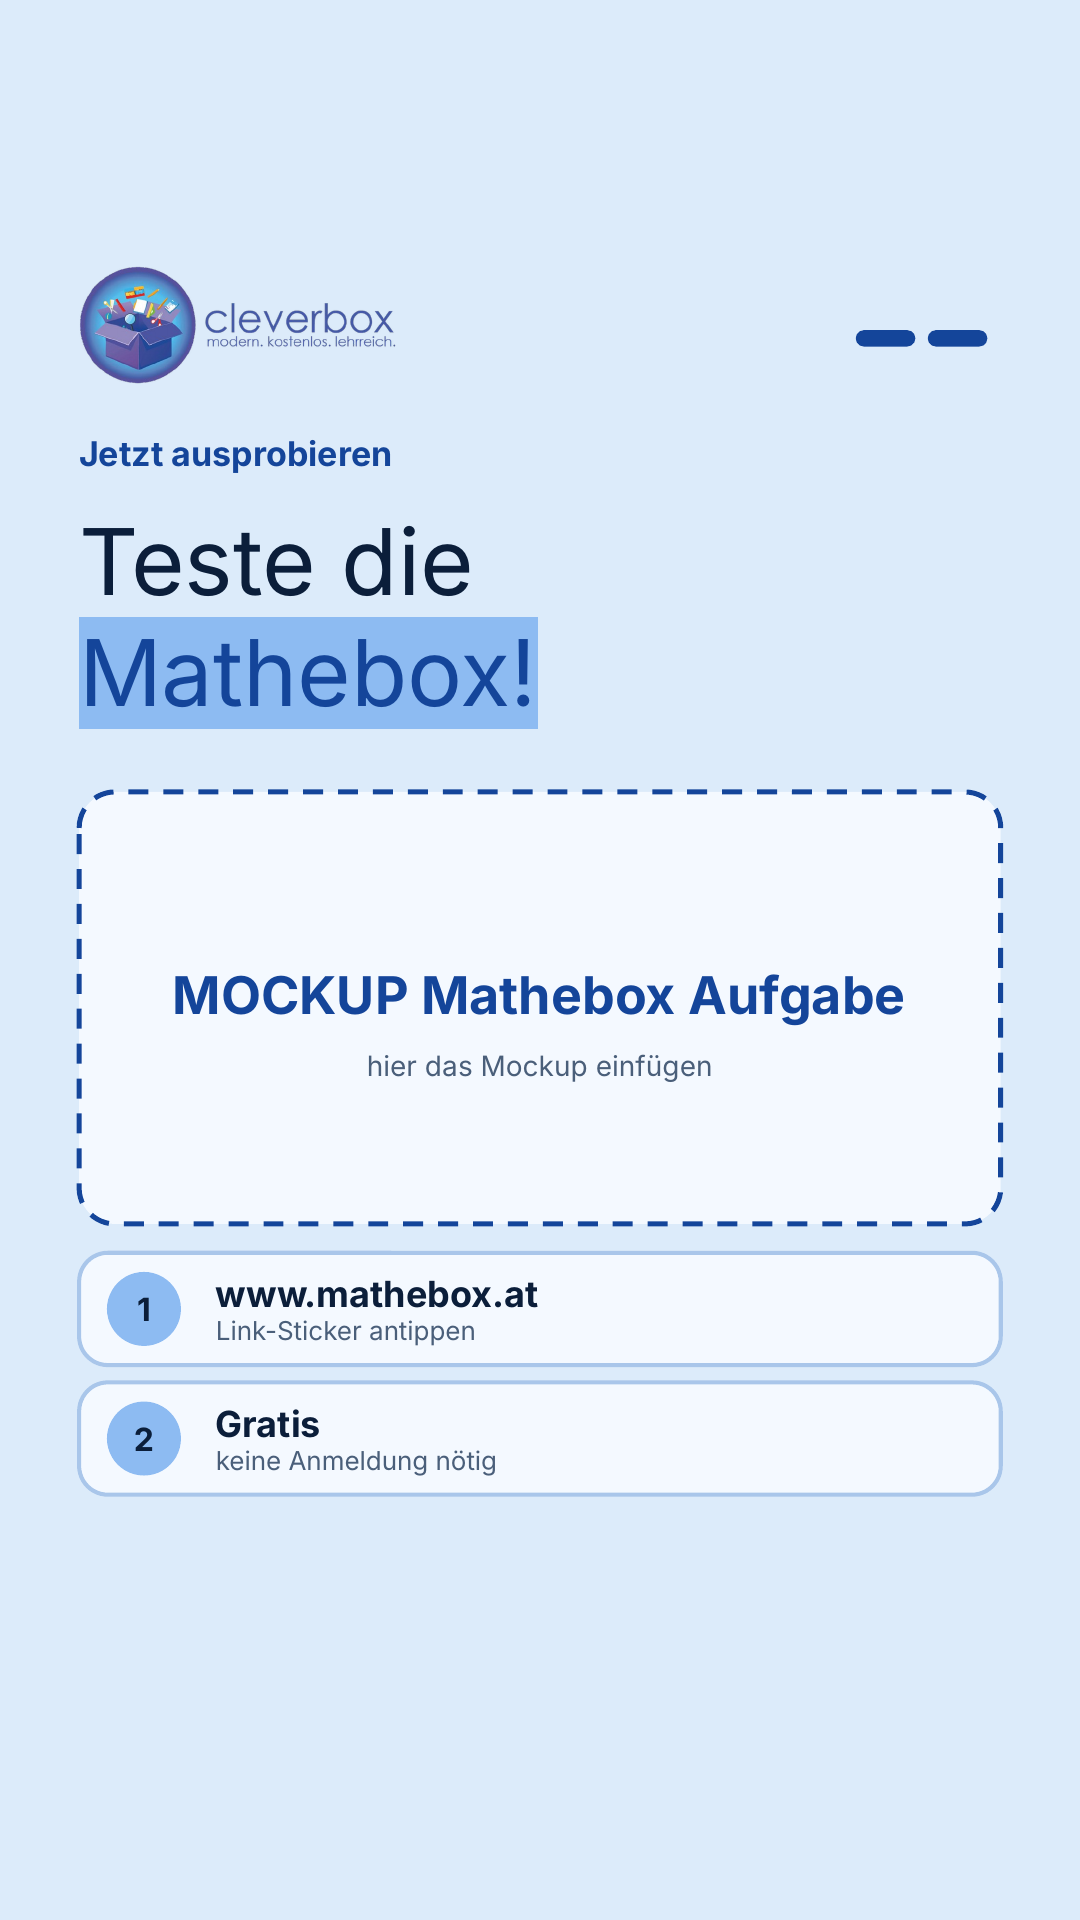
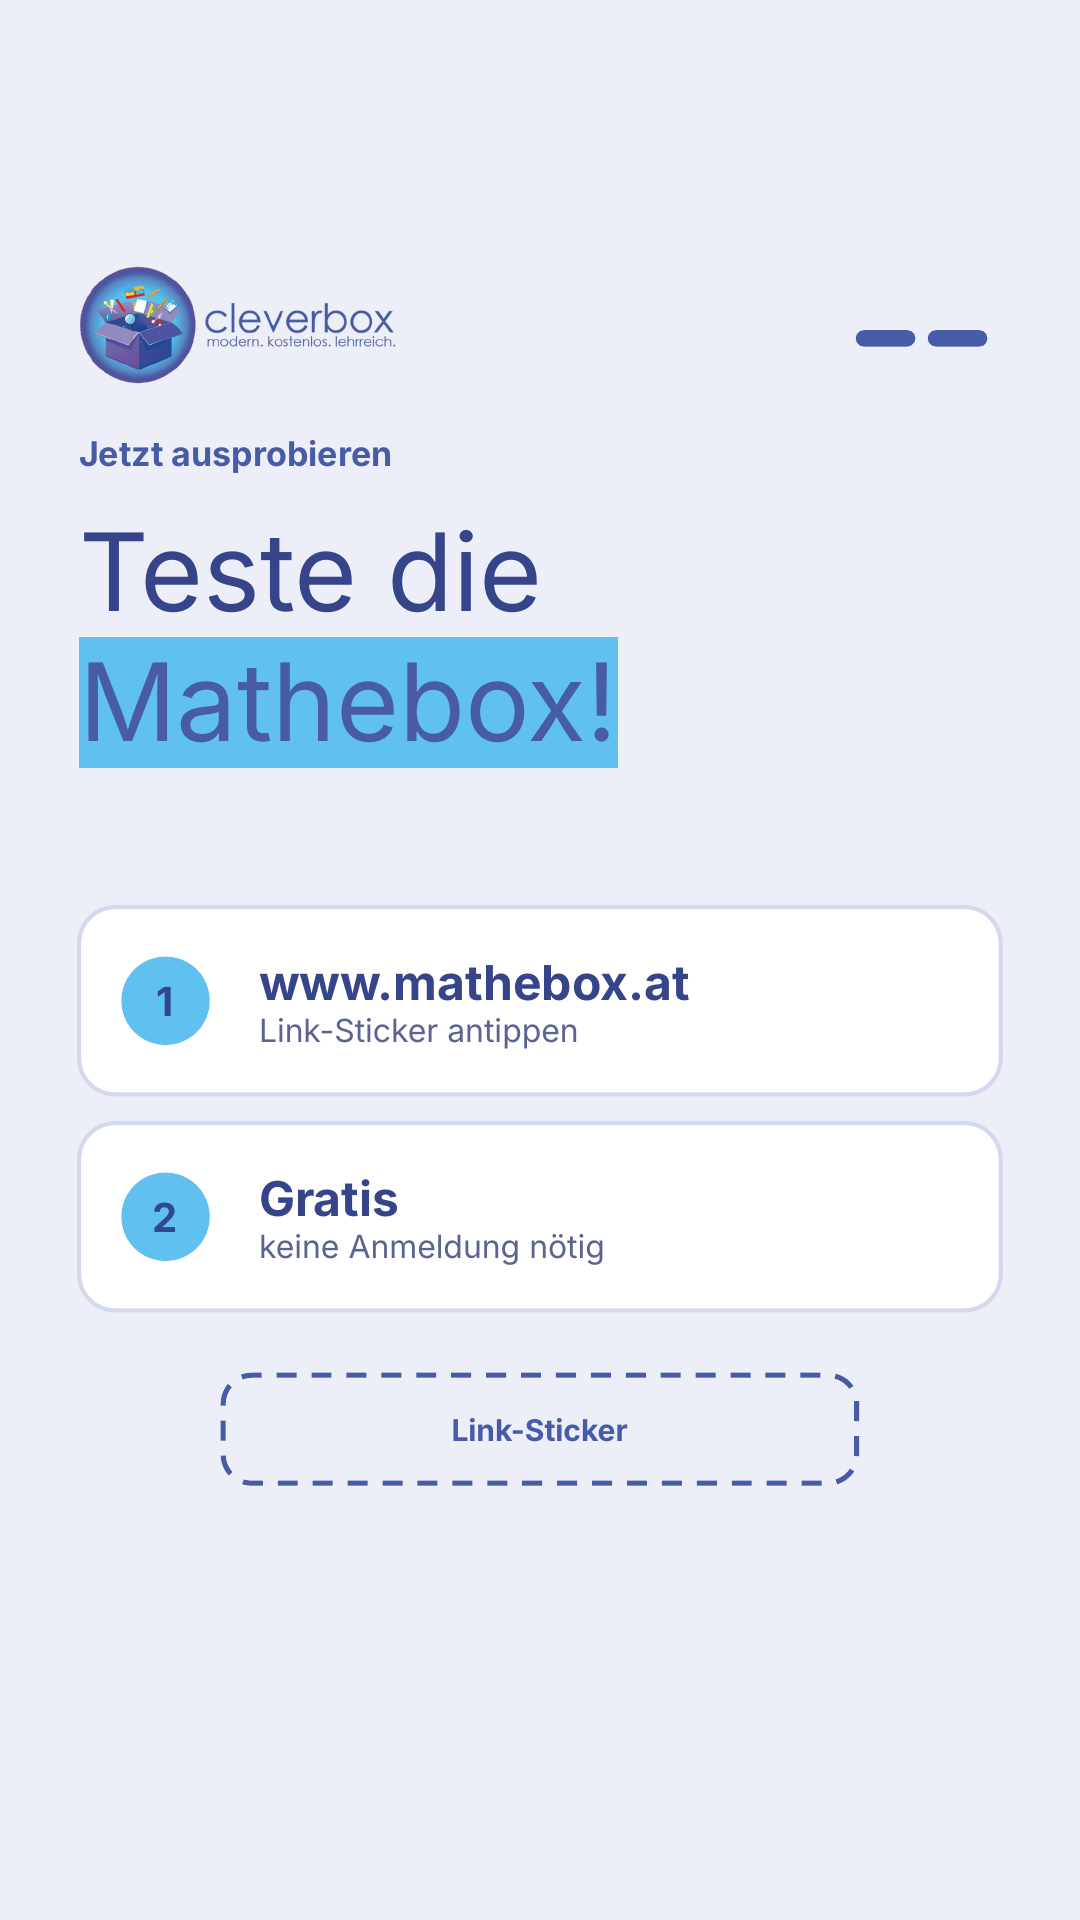
Vorstellungsstorys: ohne Mockups, Cleverbox-Farbprofil, Link-Sticker-Platzhalter
Claude-Session: https://claude.ai/code/session_0139kriXJ67p3UvpR2gsSR9G

diff --git a/videoslides/_quellcode/build82.js b/videoslides/_quellcode/build82.js
@@ -1,0 +1,38 @@
+const pptxgen = require('pptxgenjs');
+const { applyTheme } = require('/root/.claude/skills/synced/a0fffd8f-fbe1-4e7d-aa5e-38324b1aa029_20e1b83a-f4da-4ff7-a932-8b62f50170b1/pptx/scripts/apply_theme.js');
+const BRAND={name:'Cleverbox Farbprofil',BG:'ECEEF8',CARD:'FFFFFF',INK:'36448A',GREEN:'475BA6',NEON:'60C0F0',DEEP:'304890',GRAY:'5A6490',LINE:'D3D8EE',CHIP:'DDE3F5'};
+const PAL={mathe:Object.assign({out:'/home/user/claudecloud/videoslides/mathebox-vorstellungsstory'},BRAND),lingo:Object.assign({out:'/home/user/claudecloud/videoslides/lingobox-vorstellungsstory'},BRAND)};
+const FONT='Poppins';
+const STORIES={
+ mathe:{brand:'Mathebox',url:'www.mathebox.at',frames:[
+  {kick:'Neu von Cleverbox',head:[['Mathe üben. ',false,true],['Kostenlos.',true]],details:[['Mathe-Übungen','direkt im Browser'],['Kostenlos','ohne Registrierung'],['mathebox.at','für Schule und zu Hause']]},
+  {kick:'Jetzt ausprobieren',head:[['Teste die ',false,true],['Mathebox!',true]],details:[['www.mathebox.at','Link-Sticker antippen'],['Gratis','keine Anmeldung nötig']]}]},
+ lingo:{brand:'Lingobox',url:'www.lingobox.at',frames:[
+  {kick:'Neu von Cleverbox',head:[['Das ',false],['Vokabeltool',true,true],['kostenlos',false]],details:[['Sets','anlegen oder importieren'],['Hausaufgaben','mit Bestätigung per E-Mail'],['LiveModus','Vokabeltest live (Beta)']]},
+  {kick:'Jetzt ausprobieren',head:[['Teste die ',false,true],['Lingobox!',true]],details:[['www.lingobox.at','Link-Sticker antippen'],['Kostenlos','Fortschritt per E-Mail']]}]}};
+function build(key){
+  const P=PAL[key],ST=STORIES[key];const {BG,CARD,INK,GREEN,NEON,DEEP,GRAY,LINE,CHIP}=P;
+  const pres=new pptxgen();pres.defineLayout({name:'STORY',width:7.5,height:13.333});pres.layout='STORY';
+  pres.title=ST.brand+' Vorstellung';pres.author='Cleverbox';
+  const THEME={name:P.name,headFontFace:FONT,bodyFontFace:FONT,colors:{dk1:INK,lt1:CARD,dk2:DEEP,lt2:BG,accent1:NEON,accent2:GREEN,accent3:CHIP,accent4:GRAY,accent5:LINE,accent6:DEEP,hlink:GREEN,folHlink:GRAY}};
+  const S=pres.ShapeType;const X0=0.55,CW=6.4;
+  ST.frames.forEach((f,fi)=>{
+    const s=pres.addSlide();s.background={color:BG};
+    const T=(t,x,y,w,h,o={})=>s.addText(t,Object.assign({x,y,w,h,fontFace:FONT,fontSize:20,color:INK,margin:0,valign:'top',isTextBox:true},o));
+    s.addImage({path:__dirname+'/logo_small.png',x:X0,y:1.85,w:2.2,h:2.2*0.3709,altText:'cleverbox'});
+    ST.frames.forEach((_,i)=>s.addShape(S.roundRect,{x:7.5-X0-0.5*ST.frames.length+i*0.5,y:2.3,w:0.4,h:0.1,rectRadius:0.05,fill:{color:i<=fi?GREEN:LINE},line:{color:i<=fi?GREEN:LINE,width:0}}));
+    T(f.kick,X0,3.0,CW,0.45,{fontSize:17,bold:true,color:GREEN});
+    T(f.head.map(([t,a,b])=>({text:t,options:{color:a?GREEN:INK,highlight:a?NEON:undefined,breakLine:!!b}})),X0,3.5,CW,2.5,{fontSize:54,lineSpacingMultiple:1.0,valign:'top'});
+    const n=f.details.length,dh=1.3,gap=0.2,y0=fi===0?6.3:6.3;
+    f.details.forEach(([a,b],i)=>{const y=y0+i*(dh+gap);
+      s.addShape(S.roundRect,{x:X0,y,w:CW,h:dh,rectRadius:0.25,fill:{color:CARD},line:{color:LINE,width:2}});
+      s.addShape(S.ellipse,{x:X0+0.3,y:y+0.35,w:0.6,h:0.6,fill:{color:NEON},line:{color:NEON,width:0}});
+      T(String(i+1),X0+0.3,y+0.35,0.6,0.6,{fontSize:20,bold:true,color:DEEP,align:'center',valign:'middle'});
+      T([{text:a,options:{bold:true,color:INK,fontSize:24,breakLine:true}},{text:b,options:{color:GRAY,fontSize:16}}],X0+1.25,y,CW-1.4,dh,{valign:'middle'});});
+    if(fi===ST.frames.length-1){const ly=y0+n*(dh+gap)+0.25;
+      s.addShape(S.roundRect,{x:X0+1.0,y:ly,w:CW-2.0,h:0.75,rectRadius:0.2,fill:{color:CARD,transparency:100},line:{color:GREEN,width:2.5,dashType:'dash'}});
+      T('Link-Sticker',X0+1.0,ly,CW-2.0,0.75,{fontSize:15,bold:true,color:GREEN,align:'center',valign:'middle'});}
+  });
+  const OUT=P.out+'.pptx';
+  return pres.writeFile({fileName:OUT}).then(()=>applyTheme(OUT,THEME)).then(()=>console.log('ok',OUT));}
+(async()=>{await build('mathe');await build('lingo');})();
